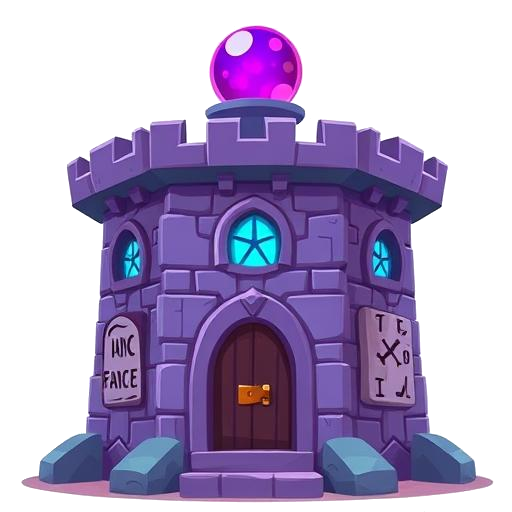
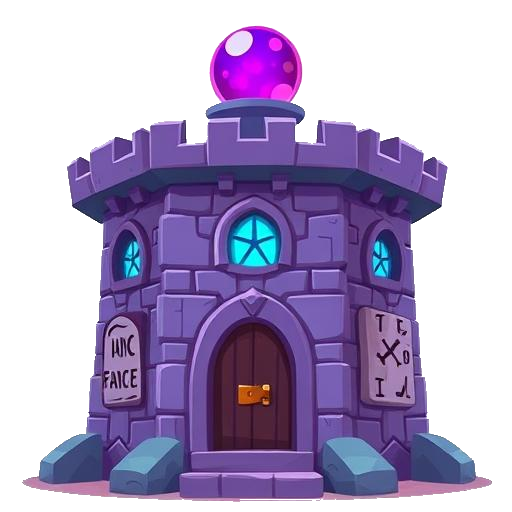
fix: ลบฮาโลขาวรอบรูปป้อม/สกิลให้สะอาด (v3.24.31)
reprocess 15 ไฟล์จากต้นฉบับด้วย saturation-aware flood fill
(ลบพิกเซลจืด+สว่างที่ต่อขอบ = ฮาโลขาว/เทา/ครีม) + graded feather
ขอบฟุ้งขาวรอบเกล็ดหิมะ/รูปอื่นหายสะอาด เก็บ aura สีอิ่มไว้ครบ
(skill_meteor/attack มีสีวาดติดภาพ ไม่ใช่ฮาโลขาว จึงคงไว้)

diff --git a/Tower Quest 🏰.html b/Tower Quest 🏰.html
@@ -3,7 +3,7 @@
 
 <meta name="viewport" content="width=device-width, initial-scale=1.0, maximum-scale=1.0, user-scalable=no">
 <title>Tower Quest 🏰</title>
-<link rel="stylesheet" href="css/main.css?v=3.24.30">
+<link rel="stylesheet" href="css/main.css?v=3.24.31">
 </head>
 <body>
 
@@ -59,7 +59,7 @@
   <div class="island" id="logoIsland">🏰</div>
   <div class="gtitle">TOWER QUEST</div>
   <div class="gsub">⚔ ปกป้องอาณาจักรของคุณ!</div>
-  <div id="verBtn" style="font-size:10px;color:rgba(255,224,130,.45);letter-spacing:1px;margin-top:-18px;margin-bottom:18px;cursor:pointer;">📰 v3.24.30 — มีอะไรใหม่<span id="newsBadge" class="news-badge" style="display:none;"></span></div>
+  <div id="verBtn" style="font-size:10px;color:rgba(255,224,130,.45);letter-spacing:1px;margin-top:-18px;margin-bottom:18px;cursor:pointer;">📰 v3.24.31 — มีอะไรใหม่<span id="newsBadge" class="news-badge" style="display:none;"></span></div>
 
   <!-- battle buttons -->
   <button class="bbattle" id="startBtn">⚔ โหมดเนื้อเรื่อง</button>
@@ -920,15 +920,15 @@
     <button class="obtn" onclick="closeSettings()">✔ ปิด</button>
   </div>
 </div>
-<script src="js/cloud-save.js?v=3.24.30"></script>
-<script src="js/save.js?v=3.24.30"></script>
-<script src="js/enemy.js?v=3.24.30"></script>
-<script src="js/tower.js?v=3.24.30"></script>
-<script src="js/game.js?v=3.24.30"></script>
-<script src="js/ui-data.js?v=3.24.30"></script>
-<script src="js/ui-profile.js?v=3.24.30"></script>
-<script src="js/ui-casino.js?v=3.24.30"></script>
-<script src="js/ui.js?v=3.24.30"></script>
+<script src="js/cloud-save.js?v=3.24.31"></script>
+<script src="js/save.js?v=3.24.31"></script>
+<script src="js/enemy.js?v=3.24.31"></script>
+<script src="js/tower.js?v=3.24.31"></script>
+<script src="js/game.js?v=3.24.31"></script>
+<script src="js/ui-data.js?v=3.24.31"></script>
+<script src="js/ui-profile.js?v=3.24.31"></script>
+<script src="js/ui-casino.js?v=3.24.31"></script>
+<script src="js/ui.js?v=3.24.31"></script>
 
 
 </body></html>

diff --git a/js/ui-data.js b/js/ui-data.js
@@ -1,6 +1,10 @@
 /* ══ WHAT'S NEW (patch notes) ══ */
-const GAME_VERSION='3.24.30';
+const GAME_VERSION='3.24.31';
 const PATCH_NOTES=[
+  {ver:'3.24.31',date:'2026-07-02',title:'🧼 ลบฮาโลขาวรอบรูปป้อม/สกิลให้สะอาด',notes:[
+    'ลบขอบฟุ้งสีขาวรอบรูป (เช่น เกล็ดหิมะแช่แข็งสนาม) ที่ยังเหลืออยู่ ให้พื้นหลังสะอาดจริง',
+    'ใช้การคัดพื้นหลังแบบดูความอิ่มสี เก็บเอฟเฟกต์สีของป้อม/สกิลไว้ครบ',
+  ]},
   {ver:'3.24.30',date:'2026-07-02',title:'🧼 ลบพื้นหลังครีม/ขาวที่เหลือของการ์ดสกิล',notes:[
     'เก็บตกพื้นหลังสีครีมของ skill_attack (พลังโจมตี) และป้อมกาลเวลาที่ยังหลงเหลือ',
     'การ์ดสกิลทุกใบพื้นหลังโปร่งใสสมบูรณ์',

diff --git a/CHANGELOG.md b/CHANGELOG.md
@@ -2,6 +2,12 @@
 
 All notable changes to Tower Quest 🏰 will be documented in this file.
 
+## v3.24.31 — ลบฮาโลขาวรอบรูปป้อม/สกิล
+
+### Changed
+- `assets/images/tower_*.{png,webp}` + `skill_*.png` (15 ไฟล์): reprocess จากไฟล์ต้นฉบับด้วยอัลกอริทึมคัดพื้นหลังแบบ saturation-aware (ลบพิกเซล "จืด+สว่าง" ที่ต่อกับขอบภาพ = ฮาโลขาว/เทา/ครีม) พร้อม graded feather 3 รอบ — ขอบฟุ้งสีขาวรอบรูป (เช่น เกล็ดหิมะ skill_freeze) หายสะอาด โดยเก็บเอฟเฟกต์สีอิ่ม (aura ม่วง/ไฟ/น้ำแข็ง) ของ subject ไว้ครบ
+- หมายเหตุ: skill_meteor (แสงไฟแดง) และ skill_attack (พื้นหินแตกโทนแทน) มีองค์ประกอบสีที่วาดติดมากับภาพ AI ไม่ใช่ฮาโลขาว จึงคงไว้
+
 ## v3.24.30 — เก็บตกพื้นหลังครีม/ขาวที่เหลือ
 
 ### Fixed

diff --git a/PROJECT_MASTER.md b/PROJECT_MASTER.md
@@ -3,7 +3,7 @@
 This document is a system-by-system map of the game as implemented in
 [`Tower Quest 🏰.html`](Tower%20Quest%20%F0%9F%8F%B0.html) plus its
 `css/main.css` and `js/{save,enemy,tower,game,ui}.js` modules (current
-version **v3.24.30**). Line numbers refer to these files and
+version **v3.24.31**). Line numbers refer to these files and
 may drift as they change — use them as a starting point for searches, not as
 permanent anchors.
 

diff --git a/CLAUDE.md b/CLAUDE.md
@@ -5,7 +5,7 @@ Guidance for Claude Code (and other AI assistants) working in this repository.
 ## Project Summary
 
 **Tower Quest 🏰** is a browser-based tower defense game written in
-Thai, currently at **v3.24.30**. Since the v1.6.1 refactor, the game is split
+Thai, currently at **v3.24.31**. Since the v1.6.1 refactor, the game is split
 across:
 
 - [`Tower Quest 🏰.html`](Tower%20Quest%20%F0%9F%8F%B0.html) — head/body
